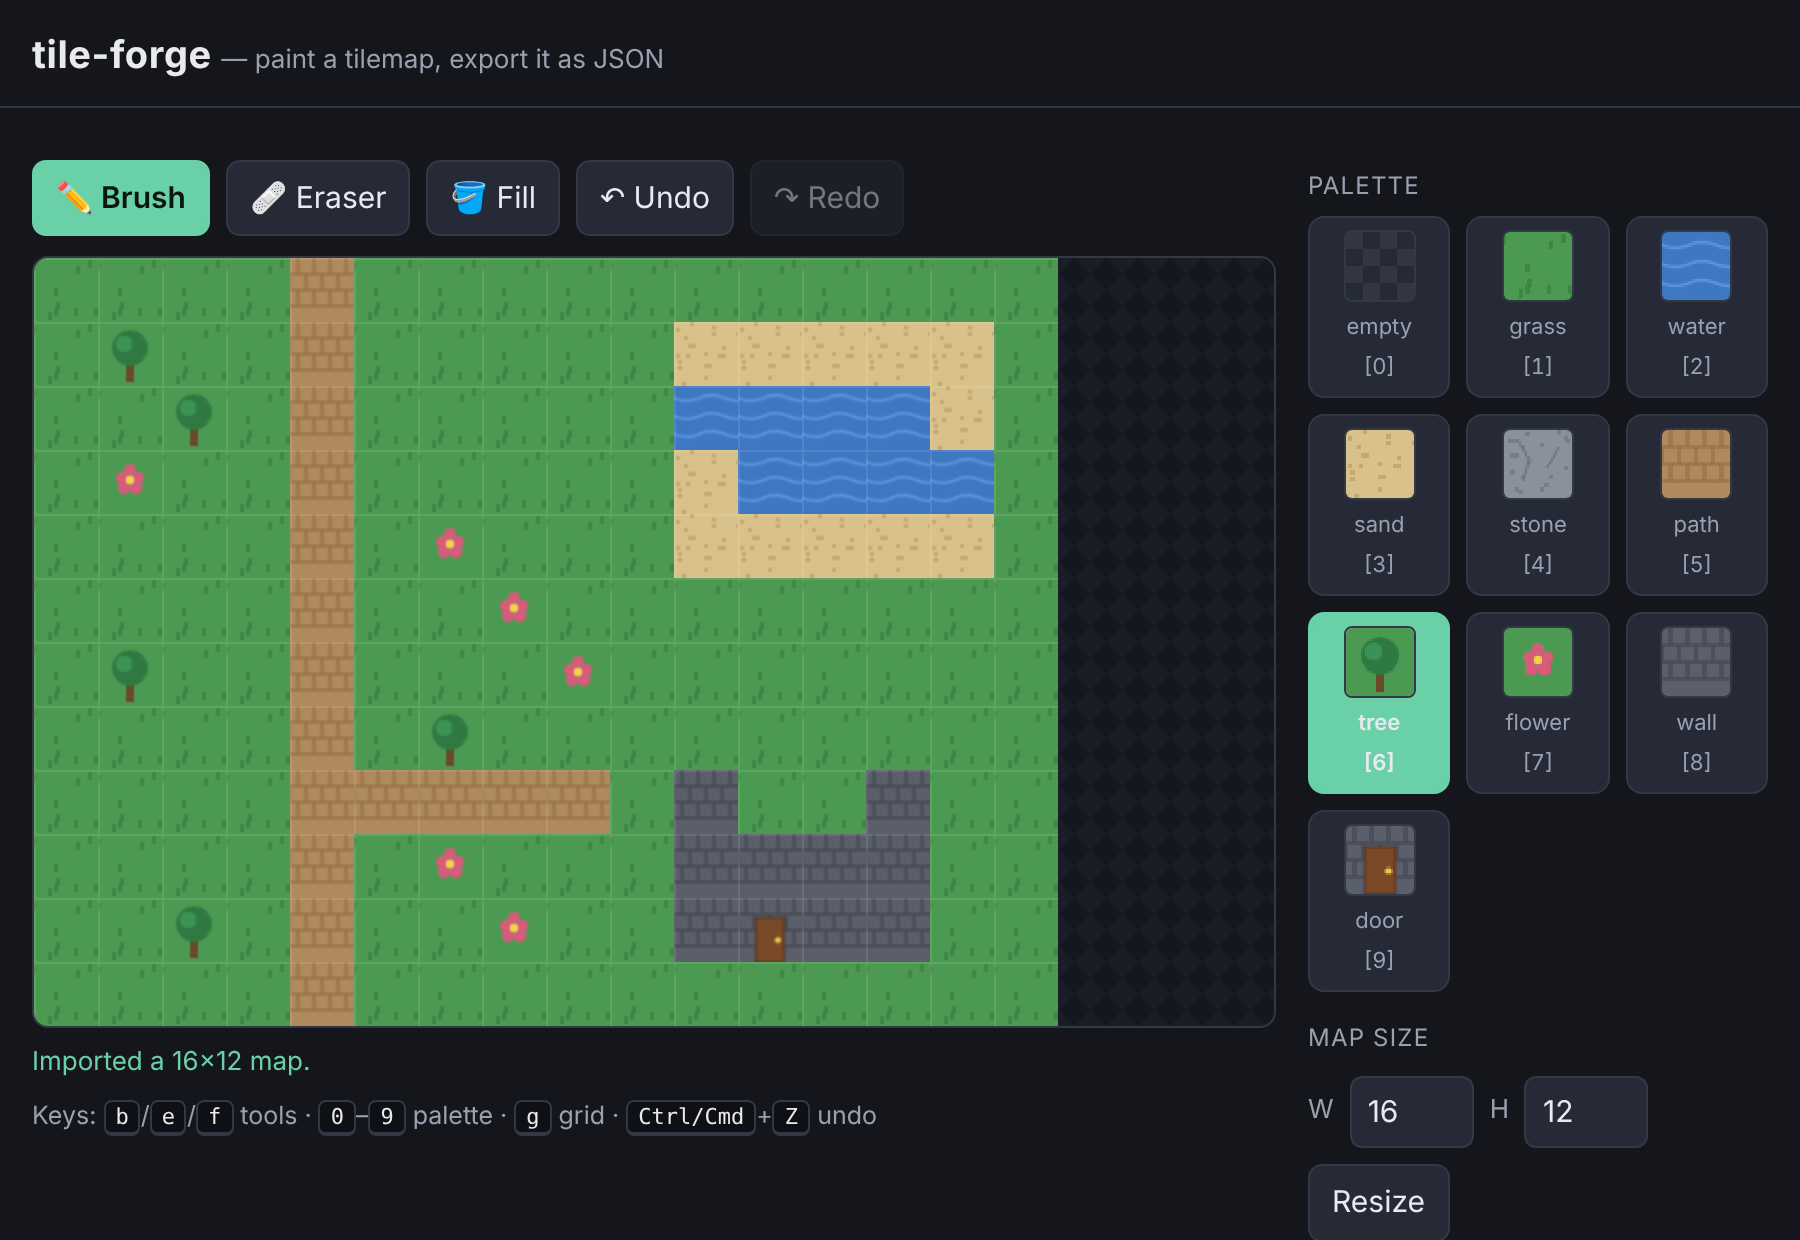
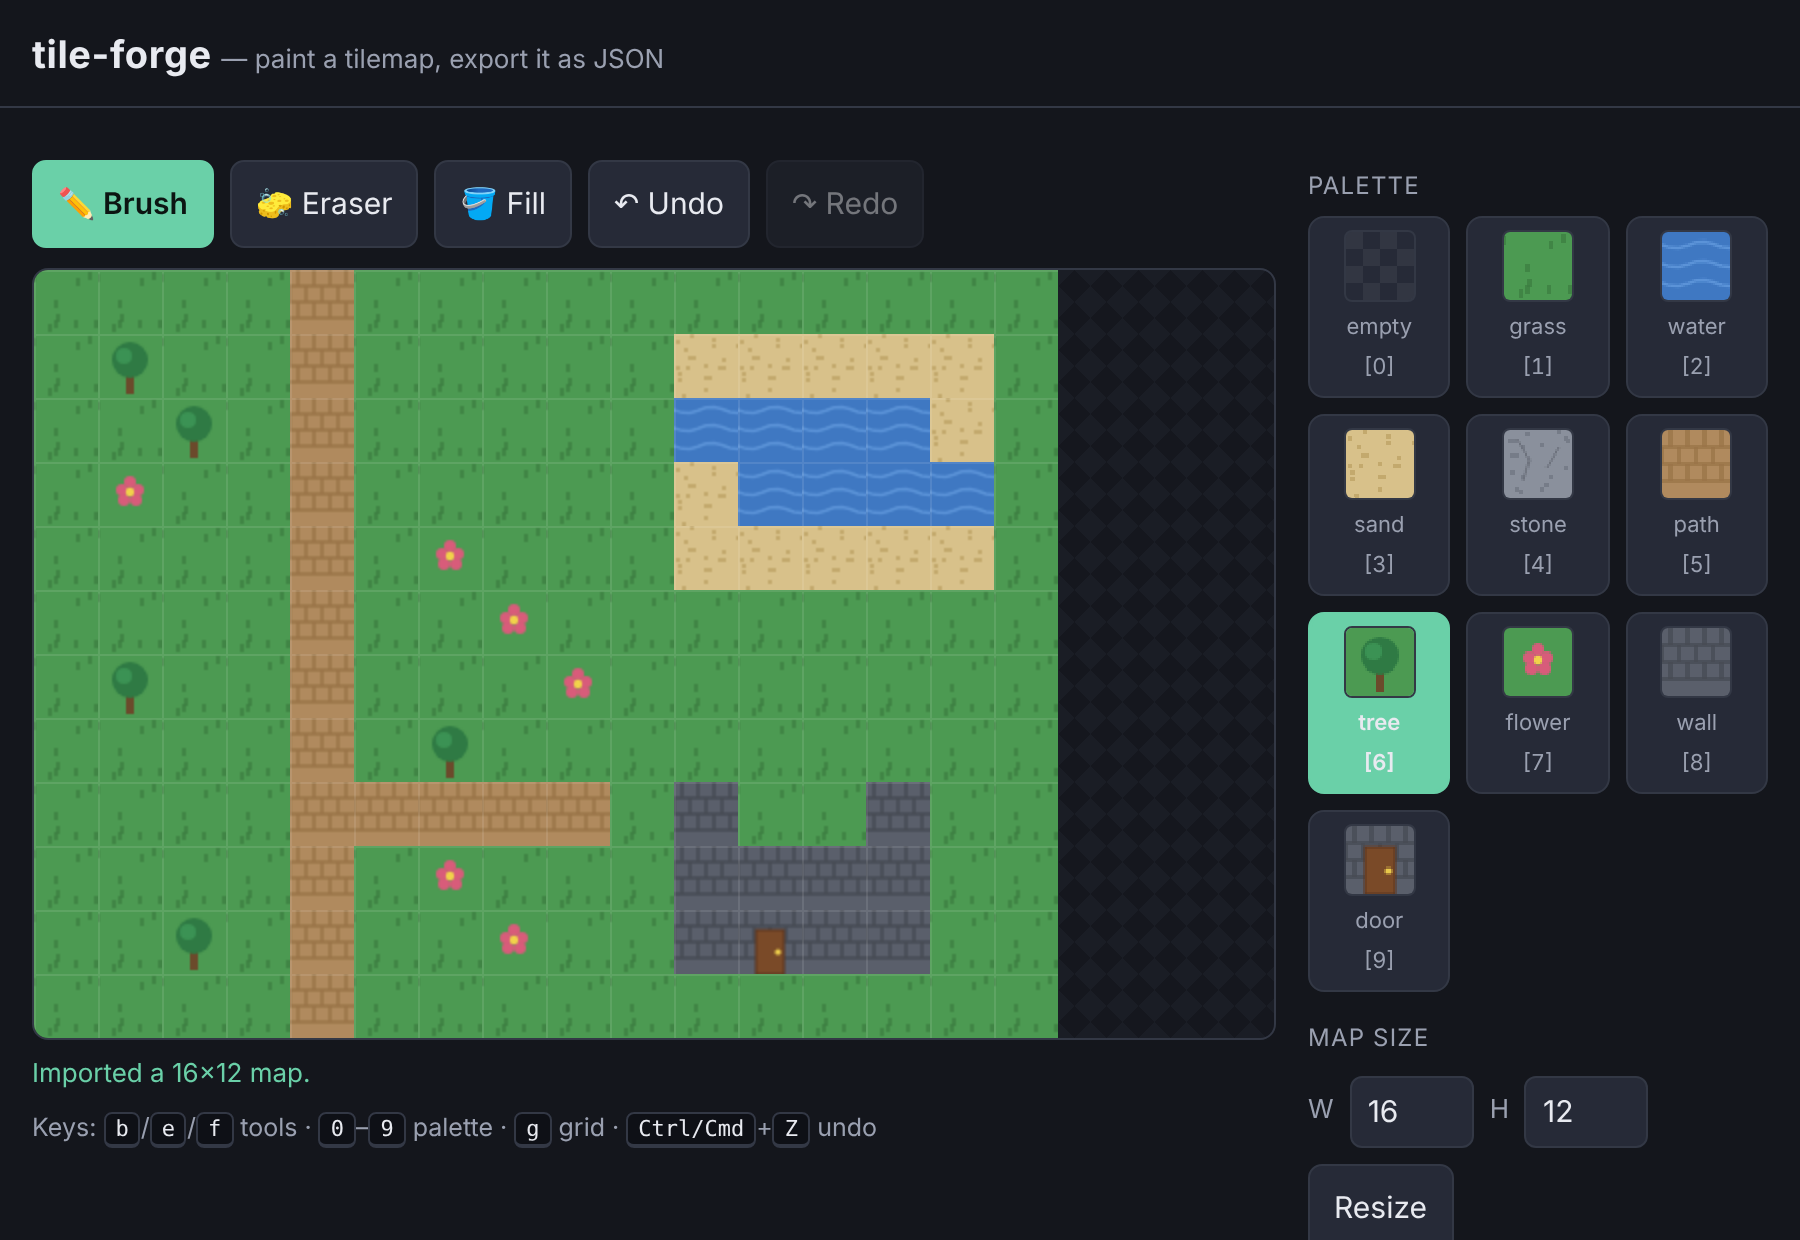
tile-forge: fix cycle — review findings from four adversarial critics
Playtester: brush now interpolates between drag samples (Bresenham), so a
fast flick paints a solid trail instead of a dotted one; right/middle mouse
buttons no longer paint and the canvas context menu is suppressed; resize
rejects non-integer input and re-syncs the W/H boxes to the real map so they
can't lie about its size. critic-ux: the status line now reports paint/erase/
fill; toolbar buttons bumped to ~44px touch targets; eraser icon changed from
a bandage to a sponge. critic-hygiene/correctness: README schema now lists the
version field; factory.json description matches the README opener.

All four critics APPROVE (must-pass 5/5, no blockers). 22/22 regression +
8/8 fix checks pass headless.

Claude-Session: https://claude.ai/code/session_01CHDmoHmSEdxSzCa1rrkxW7

diff --git a/index.html b/index.html
@@ -68,7 +68,7 @@
     background: var(--panel-2);
     border: 1px solid var(--line);
     border-radius: 7px;
-    padding: 7px 11px;
+    padding: 10px 12px;
     cursor: pointer;
   }
   button:hover { border-color: #4a5160; }
@@ -118,7 +118,7 @@
   <section class="stage" aria-label="Map">
     <div class="row" role="group" aria-label="Tools">
       <button id="tool-brush" data-tool="brush" aria-pressed="true" title="Brush (b)">✏ Brush</button>
-      <button id="tool-eraser" data-tool="eraser" aria-pressed="false" title="Eraser (e)">🩹 Eraser</button>
+      <button id="tool-eraser" data-tool="eraser" aria-pressed="false" title="Eraser (e)">🧽 Eraser</button>
       <button id="tool-fill" data-tool="fill" aria-pressed="false" title="Bucket fill (f)">🪣 Fill</button>
       <button id="undo" title="Undo (Ctrl/Cmd+Z)" disabled>↶ Undo</button>
       <button id="redo" title="Redo (Ctrl/Cmd+Shift+Z)" disabled>↷ Redo</button>
@@ -385,10 +385,32 @@
   }
   function paintValue() { return tool === "eraser" ? 0 : current; }
 
+  function setCell(x, y, v) {
+    if (x < 0 || y < 0 || x >= map.width || y >= map.height) return false;
+    if (map.tiles[y][x] === v) return false;
+    map.tiles[y][x] = v; return true;
+  }
+
   function applyAt(cell) {
     if (tool === "fill") { floodFill(cell.x, cell.y, paintValue()); return; }
-    var v = paintValue();
-    if (map.tiles[cell.y][cell.x] !== v) { map.tiles[cell.y][cell.x] = v; render(); }
+    if (setCell(cell.x, cell.y, paintValue())) render();
+  }
+
+  // Paint every cell on the line between two drag samples (Bresenham), so a
+  // fast flick leaves a solid trail instead of a dotted one.
+  function lineCells(a, b) {
+    var v = paintValue(), changed = false;
+    var x0 = a.x, y0 = a.y, x1 = b.x, y1 = b.y;
+    var dx = Math.abs(x1 - x0), dy = Math.abs(y1 - y0);
+    var sx = x0 < x1 ? 1 : -1, sy = y0 < y1 ? 1 : -1, err = dx - dy;
+    while (true) {
+      if (setCell(x0, y0, v)) changed = true;
+      if (x0 === x1 && y0 === y1) break;
+      var e2 = 2 * err;
+      if (e2 > -dy) { err -= dy; x0 += sx; }
+      if (e2 < dx) { err += dx; y0 += sy; }
+    }
+    if (changed) render();
   }
 
   function floodFill(x, y, to) {
@@ -406,6 +428,7 @@
   }
 
   function onDown(e) {
+    if (e.pointerType === "mouse" && e.button !== 0) return; // primary button only
     var cell = cellFromEvent(e);
     if (!cell) return;
     e.preventDefault();
@@ -421,14 +444,20 @@
   }
   function strokeTo(cell) {
     if (lastCell && lastCell.x === cell.x && lastCell.y === cell.y) return;
+    if (tool === "fill" || !lastCell) applyAt(cell);
+    else lineCells(lastCell, cell);
     lastCell = cell;
-    applyAt(cell);
   }
   function onUp() {
     if (!painting) return;
     painting = false;
     // commit the stroke to history only if it changed something
-    if (pendingSnapshot && !sameTiles(pendingSnapshot, map)) pushUndo(pendingSnapshot);
+    if (pendingSnapshot && !sameTiles(pendingSnapshot, map)) {
+      pushUndo(pendingSnapshot);
+      if (tool === "fill") setStatus("Filled with " + PALETTE[current].name + ".", "");
+      else if (tool === "eraser") setStatus("Erased.", "");
+      else setStatus("Painted with " + PALETTE[current].name + ".", "");
+    }
     pendingSnapshot = null; lastCell = null;
   }
   function sameTiles(a, b) {
@@ -442,8 +471,9 @@
   function syncSizeInputs() { wIn.value = map.width; hIn.value = map.height; }
 
   function doResize() {
-    var w = parseInt(wIn.value, 10), h = parseInt(hIn.value, 10);
-    if (!isFinite(w) || !isFinite(h) || String(wIn.value).trim() === "" || String(hIn.value).trim() === "") {
+    var wRaw = String(wIn.value).trim(), hRaw = String(hIn.value).trim();
+    var w = Number(wRaw), h = Number(hRaw);
+    if (wRaw === "" || hRaw === "" || !Number.isInteger(w) || !Number.isInteger(h)) {
       setStatus("Width and height must be whole numbers from " + MIN + " to " + MAX + ".", "err");
       syncSizeInputs(); return;
     }
@@ -451,14 +481,14 @@
       setStatus("Size must be between " + MIN + " and " + MAX + " per side.", "err");
       syncSizeInputs(); return;
     }
-    if (w === map.width && h === map.height) { setStatus("Already " + w + "×" + h + ".", ""); return; }
+    if (w === map.width && h === map.height) { setStatus("Already " + w + "×" + h + ".", ""); syncSizeInputs(); return; }
     var prev = snapshot();
     var next = blank(w, h);
     for (var y = 0; y < Math.min(h, map.height); y++)
       for (var x = 0; x < Math.min(w, map.width); x++)
         next.tiles[y][x] = map.tiles[y][x];
     map = next;
-    pushUndo(prev); render(); setStatus("Resized to " + w + "×" + h + ".", "ok");
+    pushUndo(prev); syncSizeInputs(); render(); setStatus("Resized to " + w + "×" + h + ".", "ok");
   }
 
   function doClear() {
@@ -594,6 +624,7 @@
     cv.addEventListener("pointermove", onMove);
     window.addEventListener("pointerup", onUp);
     cv.addEventListener("pointercancel", onUp);
+    cv.addEventListener("contextmenu", function (e) { e.preventDefault(); });
 
     document.querySelectorAll("[data-tool]").forEach(function (b) {
       b.addEventListener("click", function () { selectTool(b.dataset.tool); });

diff --git a/README.md b/README.md
@@ -8,7 +8,7 @@ Paint a tilemap in your browser, then export it as JSON — a small, keyboard-an
 
 ## What it does
 
-Pick a tile from a procedural palette and paint it onto a grid with a brush, an eraser, or a bucket fill — mouse or touch. Resize the map between 1 and 64 tiles a side; existing tiles that still fit are kept. Undo and redo cover every edit, including resize and clear. Export the map as a JSON file (or copy it to the clipboard) and import it back: the schema is a plain `{width, height, palette, tiles}` object with row-major tile indices, so other tools can read it. A malformed or oversized import is refused with a message and leaves your current map untouched.
+Pick a tile from a procedural palette and paint it onto a grid with a brush, an eraser, or a bucket fill — mouse or touch. Resize the map between 1 and 64 tiles a side; existing tiles that still fit are kept. Undo and redo cover every edit, including resize and clear. Export the map as a JSON file (or copy it to the clipboard) and import it back: the schema is a plain `{version, width, height, palette, tiles}` object with row-major tile indices, so other tools can read it. A malformed or oversized import is refused with a message and leaves your current map untouched.
 
 All ten tiles are drawn from code at load — no image files, no fonts, nothing to download.
 
